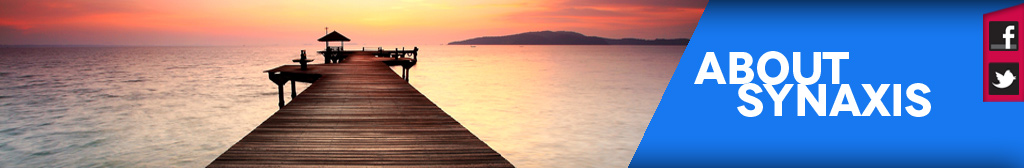
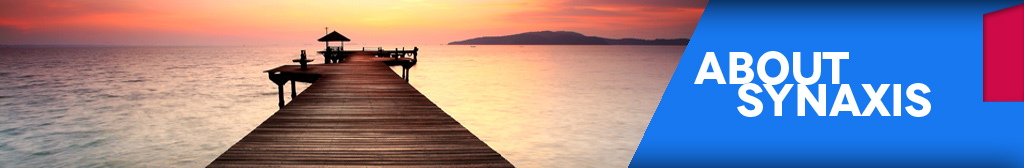
MBA changes

Changed region(s): [[0.9375, 0.3571, 1.0, 0.5655], [0.9688, 0.119, 1.0, 0.3274]]

diff --git a/css/main.css b/css/main.css
@@ -40,6 +40,14 @@ header .primary ul li:first-child a { padding-right: 18px; margin-right: 0; }
 header .primary ul li:last-child { margin-left: 10px; }
 header .primary ul li:last-child:before { border-top: 5px solid transparent; border-bottom: 5px solid 
 transparent; border-left: 5px solid #fff; display: block; position: absolute; content: ""; margin-top: 12px; margin-left: -3px; }
+.lt-ie9 header .primary ul li:first-child, .lt-ie9 header .primary ul li:first-child a { margin: 0; padding: 0; }
+.lt-ie9 header .primary ul li:first-child:before, .lt-ie9 header .primary ul li:first-child:after { content: ""; display: none; }
+.lt-ie9 header .primary ul li:first-child a { width: 128px; height: 32px; display: block; text-align: center; background: url(../images/ie8-primary-bg.png) no-repeat; }
+
+
+.lt-ie9 header .primary ul li:last-child { }
+
+
 header h1 { margin: 0; padding: 0; display: inline; }
 header h1 a { width: 150px; height: 106px; display: block; background: url(../images/logo-top.png) no-repeat; margin: 16px 0 0 45px; padding: 0; float: left; }
 
@@ -47,8 +55,6 @@ header .secondary { float: right;  font-size: 12px; margin-top: 65px; margin-rig
 header .secondary ul { padding: 0; margin: 0; text-transform: uppercase; }
 header .secondary ul li { float: left; color: #fff; height: 13px; line-height: 13px; }
 header .secondary ul li a { color: #fff; text-decoration: none; margin: 0 4px; padding-right: 10px; }
-
-
 
 /* Navigation CSS */
 
@@ -61,6 +67,10 @@ header .secondary ul li a { color: #fff; text-decoration: none; margin: 0 4px; p
 	}
 	
 	#subnav li:first-child:hover:before, #subnav li:first-child.current_page_item:before { display: inline-block; width: 8px; height: 13px; content: ""; position: absolute; background: url(../images/secondary-left-bg.png) no-repeat; }
+	
+	.lt-ie9 #subnav { height: 13px; margin-left: -8px; padding-left: 8px; }
+	.lt-ie9 #subnav:hover { background: url(../images/secondary-left-bg.png) left center no-repeat; }
+	.lt-ie9 #subnav li.first a { padding-left: 2px; }
 	
 	#subnav li.previous-current a {
 		background: url(../images/subnav-bg-left2.png) top right no-repeat;
@@ -96,9 +106,6 @@ header .secondary ul li a { color: #fff; text-decoration: none; margin: 0 4px; p
 		margin:0 6px 0 9px;
 	}
 
-
-
-
 #content { margin-top: 15px; }
 #slides { position: relative; margin-bottom: 11px; }
 #slides .caption-top { position: absolute; z-index: 10; background: #000; color: #fff; padding: 2px 18px; margin-left: 45px; }
@@ -130,6 +137,7 @@ header .secondary ul li a { color: #fff; text-decoration: none; margin: 0 4px; p
 transparent; border-left: 5px solid #c70c46; position: absolute; content: ""; margin-top: 4px; margin-left: 3px; }
 .about a:hover { color: #fc6a1f; -webkit-transition: color 200ms linear; -moz-transition: color 200ms linear; -ms-transition: color 200ms linear; -o-transition: color 200ms linear; transition: color 200ms linear; }
 .program { background: url(../images/program-bg.png) no-repeat; }
+.program, .program p { text-decoration: none; }
 .program:hover { background: url(../images/program-bg-hover.png) no-repeat; }
 .program img, .register-online img, .supplier-partners img, .travel-accommodation img { margin: 10px 0 0 10px; }
 .program h2 { margin: 0 0 0 8px; color: #fff; font-size: 24px; display: inline-block; }
@@ -166,7 +174,7 @@ transparent; border-left: 5px solid #c70c46; position: absolute; content: ""; ma
 #slides-small .next { left: 293px; }
 #slides-small .slides_container { width:322px; height:189px; }
 #slides-small .slides_container div { width:322px; height:189px; display:block; }
-#slides-small .slides_container .caption { z-index:500; position:absolute; padding: 0; margin: 0; width: 135px; 	font-size:1.3em; line-height:1.33; color:#fff; }
+#slides-small .slides_container .caption { z-index:500; position:absolute; padding: 0; margin: 0; width: 130px; 	font-size:1.3em; line-height:1.33; color:#fff; }
 #slides-small .slides_container .caption h3 { margin: 0; padding: 0; font-family: sans-serif; font-size: 12px; }
 #slides-small .slides_container .caption p { margin: 0; padding: 0; font-family: sans-serif; font-size: 12px; color: #7d7d7d; }
 .upcoming-events aside { width: 145px; height: 189px; background-color: #000; position: relative; bottom: 189px; left: 332px; }
@@ -195,10 +203,10 @@ footer .extra-info li a { position: relative; bottom: 1px; color: #6c6c6c; }
 
 .template-two header .secondary ul li:first-child { background-color: #d20a49; }
 .template-two #masthead { position: relative; }
-.template-two #masthead .ir { position: absolute; z-index: 20; top: 20px; right: 4px; width: 32px; height: 32px; }
-.template-two #masthead .ir + .ir { top: 63px; }
-.template-two #masthead .ir:hover { background: url(../images/social.png) no-repeat; background-position-x: 1px; }
-.template-two #masthead .ir + .ir:hover { background: url(../images/social.png) -31px 0 no-repeat; }
+.template-two #masthead .ir { position: absolute; z-index: 20; top: 20px; right: 4px; width: 30px; height: 30px; background: url(../images/fb.png) }
+.template-two #masthead .ir:hover { background: url(../images/fb-hover.png) no-repeat; }
+.template-two #masthead .ir + .ir { top: 63px; background: url(../images/tw.png) no-repeat; }
+.template-two #masthead .ir + .ir:hover { background: url(../images/tw-hover.png) no-repeat; }
 .template-two #content { background-color: #fff; }
 .template-two #content aside { width: 260px; border-right: 1px solid #929191; margin-top: 28px; float: left; margin-bottom: 20px; }
 .template-two #corporate-retreat { width: 214px; height: 173px; background-color: #504848; margin: 0 auto; position: relative; }
@@ -219,6 +227,12 @@ line-height: 18px; font-weight: bold; }
 .form #masthead .ir + .ir { top: 63px; }
 .form #masthead .ir:hover { background: url(../images/social.png) no-repeat; background-position-x: 1px; }
 .form #masthead .ir + .ir:hover { background: url(../images/social.png) -31px 0 no-repeat; }
+
+.form #masthead .ir { position: absolute; z-index: 20; top: 20px; right: 4px; width: 30px; height: 30px; background: url(../images/fb.png) }
+.form #masthead .ir:hover { background: url(../images/fb-hover.png) no-repeat; }
+.form #masthead .ir + .ir { top: 63px; background: url(../images/tw.png) no-repeat; }
+.form #masthead .ir + .ir:hover { background: url(../images/tw-hover.png) no-repeat; }
+
 .form form { background: #808080; padding: 10px; width: 854px; margin: 50px auto;}
 .form form fieldset { border: none; margin-bottom: 10px; }
 .form form legend { color: #fff; font-size: 16px; font-weight: bold; padding-bottom: 10px; text-shadow:0 0 5px #000, 0 0 1px transparent; }
